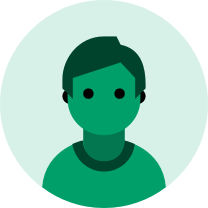
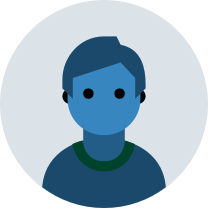
synce data to server

Changed region(s): [[0.2885, 0.1731, 0.7212, 0.7788], [0.2019, 0.6923, 0.8077, 1.0]]

diff --git a/app/services/upload_service.js b/app/services/upload_service.js
@@ -1,0 +1,105 @@
+import React, {Component} from 'react';
+// import NetInfo from "@react-native-community/netinfo";
+import realm from '../schemas/schema';
+import api from '../utils/api';
+import { environment } from '../config/environment';
+
+export default class UploadServices  {
+  static async uploadUser(uuid) {
+    alert('upload')
+    // NetInfo.isConnected.fetch().then(isConnected => {
+    //   api.post('/migrants', this._buildData(uuid)).then((res) => {
+    //     if(res.data && res.data.success){
+    //       this.cursor = 0;
+    //       this.data = realm.objects('Sidekiq').slice();
+    //       this.uploadSidekiq();
+    //     }
+    //   })
+    // });
+    // alert('me');
+    // api.post('/migrants', this._buildData(uuid)).then((res) => {
+    // let data = this._buildData(uuid);
+    // alert(JSON.stringify(data))
+
+    // let user = realm.objects('User')[0];
+    // var body = new FormData();
+    // body.append('full_name', user.name);
+    // body.append('age', user.age);
+
+    // body.append('voice', {});
+    // if (!user.voiceRecord) {
+    //   body.append('voice', {
+    //     name: 'test.aac',
+    //     type: 'audio/aac',
+    //     uri: 'file://' + user.voiceRecord
+    //   });
+    // }
+
+
+    // try {
+    //   // const res = await fetch("https://8ab20335.ngrok.io/api/v1/migrants", {
+    //   const res = await fetch("http://192.168.0.109:3000/api/v1/migrants", {
+    //     method: 'POST',
+    //     headers: {
+    //       'Accept': 'application/json',
+    //       'Content-Type': 'multipart/form-data',
+    //       'Authorization': `Bearer ${environment.access_token}`
+    //     },
+    //     body: body,
+    //   })
+    //   const json = await res.json();
+    // } catch (err) {
+    //   alert(err)
+    // }
+
+
+    // fetch(`${environment.apiUrl}/migrants`, {
+    //   method: 'POST',
+    //   headers: {
+    //     'Content-Type': 'multipart/form-data',
+    //   },
+    //   body: body
+    // })
+    // .then(response => response.json())
+    // .then(response => {
+    //   console.log("upload succes", response);
+    //   alert("Upload success!");
+    //   this.setState({ photo: null });
+    // })
+    // .catch(error => {
+    //   console.log("upload error", error);
+    //   alert("Upload failed!");
+    // });
+  }
+
+  static _buildData(uuid) {
+    // let user = realm.objects('User').filtered('uuid="' + uuid + '"')[0];
+    let user = realm.objects('User')[0];
+
+    if (!user) {
+      return {};
+    }
+
+    let attributes = {
+      uuid: user.uuid,
+      full_name: user.name,
+      age: user.age,
+      sex: user.sex,
+      phone_number: user.phoneNumber,
+      voice: user.voiceRecord
+    }
+
+    let formData = new FormData();
+    formData.append('migrant', JSON.stringify(attributes));
+
+    if (!!user.voiceRecord) {
+      formData.append('voice', {
+        uri: 'file://'+ user.voiceRecord,
+        type: 'audio/aac',
+        name: 'voiceRecord.aac'
+      });
+    }
+
+    return formData;
+  }
+}

diff --git a/app/navigators/app_navigator.js b/app/navigators/app_navigator.js
@@ -11,6 +11,7 @@ import OtherInfoScreen from '../screens/other_info';
 import RegisterScreen from '../screens/register';
 import ChcScreen from '../screens/chc';
 import AboutScreen from '../screens/about';
+import ProfileListScreen from '../screens/profile_list';
 
 const Stack = createStackNavigator();
 
@@ -19,32 +20,24 @@ export default class AppNavigator extends Component {
     return (
       <NavigationContainer>
         <StatusBar backgroundColor={Color.primary} translucent={true} />
-        <Stack.Navigator initialRouteName="RegisterScreen">
-          <Stack.Screen
-            name="HomeScreen"
-            component={HomeScreen}
-            options={{
-              headerShown: false
-            }}
-          />
+        <Stack.Navigator
+          initialRouteName="ProfileListScreen"
+          screenOptions={{
+            headerStyle: {
+              backgroundColor: Color.primary,
+            },
+            headerTintColor: '#fff',
+            headerTitleStyle: {
+              fontFamily: FontFamily.title,
+            }
+          }}>
 
-          <Stack.Screen name="ChcScreen" component={ChcScreen} />
-          <Stack.Screen name="OtherInfoScreen" component={OtherInfoScreen} />
-          <Stack.Screen
-            name="RegisterScreen"
-            component={RegisterScreen}
-            options={{
-              title: "ចុះឈ្មោះ",
-              headerStyle: {
-                backgroundColor: Color.primary,
-              },
-              headerTintColor: '#fff',
-              headerTitleStyle: {
-                fontFamily: FontFamily.title,
-              },
-            }}
-          />
-          <Stack.Screen name="AboutScreen" component={AboutScreen} />
+          <Stack.Screen name="HomeScreen" component={HomeScreen} options={{headerShown: false}}/>
+          <Stack.Screen name="ProfileListScreen" component={ProfileListScreen} options={{title: "ប្រវត្តិចុះឈ្មោះ"}}/>
+          <Stack.Screen name="ChcScreen" component={ChcScreen} options={{title: "ទាក់ទងទៅលេខ១២៨០"}} />
+          <Stack.Screen name="OtherInfoScreen" component={OtherInfoScreen} options={{title: "ចំណាកស្រុកសុវត្ថិភាព"}} />
+          <Stack.Screen name="RegisterScreen" component={RegisterScreen} options={{title: "ចុះឈ្មោះ"}} />
+          <Stack.Screen name="AboutScreen" component={AboutScreen} options={{title: "អំពីកម្មវិធី"}} />
         </Stack.Navigator>
       </NavigationContainer>
     );

diff --git a/app/screens/register.js b/app/screens/register.js
@@ -20,6 +20,7 @@ import Audio from '../components/audio';
 import Toast, { DURATION } from 'react-native-easy-toast';
 import realm from '../schemas/schema';
 import uuidv4 from '../utils/uuidv4';
+import UserWorker from '../workers/user_worker';
 
 export default class Register extends React.Component {
   state = {
@@ -110,13 +111,16 @@ export default class Register extends React.Component {
 
   _buildOption(title, value, imageName) {
     let borderStyle = this.state.sex == value ? { borderColor: Color.primary } : {};
+    let textFont = this.state.sex == value ? FontFamily.title : FontFamily.body;
+    let textColor = this.state.sex == value ? Color.primary : Color.textBlack;
+
     return (
       <TouchableOpacity
         onPress={() => this.setState({sex: value}) }
         style={[styles.card, Style.boxShadow, borderStyle]}>
 
         <Image source={Images[imageName]} style={{width: 52, height: 52}} />
-        <Text>{title}</Text>
+        <Text style={{fontFamily: textFont, color: textColor}}>{title}</Text>
       </TouchableOpacity>
     )
   }
@@ -162,8 +166,8 @@ export default class Register extends React.Component {
     try {
       realm.write(() => {
         realm.create('User', this._buildData(), true);
-        // Sidekiq.create(this.state.uuid, 'User');
-        // this.props.navigation.navigate('AboutScreen');
+        UserWorker.performAsync(this.state.uuid);
+        this.props.navigation.navigate('ChcScreen');
       });
     } catch (e) {
       alert(e);
@@ -171,7 +175,7 @@ export default class Register extends React.Component {
   }
 
   _buildData() {
-    let fields = ['uuid', 'name', 'sex', 'age', 'phoneNumber'];
+    let fields = ['uuid', 'name', 'sex', 'age', 'phoneNumber', 'voiceRecord'];
     let obj = {};
 
     for(let i=0; i<fields.length; i++) {

diff --git a/app/components/audio.js b/app/components/audio.js
@@ -104,8 +104,8 @@ export default class Audio extends Component {
     }
 
     const rationale = {
-      'title': 'Microphone Permission',
-      'message': 'AudioExample needs access to your microphone so you can record audio.'
+      'title': 'ការអនុញ្ញាតប្ើរមីក្រូហ្វូន',
+      'message': 'កម្មវិធីនេះ សុំសិទ្ធិចូលប្រើមីក្រូហ្វូនរបស់អ្នក ដូច្នេះទើបអ្នកអាចថតសំលេង។'
     };
 
     return PermissionsAndroid.request(PermissionsAndroid.PERMISSIONS.RECORD_AUDIO, rationale)
@@ -247,8 +247,8 @@ export default class Audio extends Component {
   _renderButtonSave() {
     return (
       <TouchableOpacity style={{flex: 1, alignItems: 'center'}} onPress={() => this._onSaveRecord()}>
-        <AwesomeIcon name='check' size={30} color={Color.primary} />
-        <Text style={{color: Color.primary}}>រក្សាទុក</Text>
+        <AwesomeIcon name='check' size={30} color={Color.green} />
+        <Text style={{color: Color.green}}>រក្សាទុក</Text>
       </TouchableOpacity>
     );
   }

diff --git a/App.js b/App.js
@@ -9,7 +9,7 @@ import { ThemeContext, getTheme } from 'react-native-material-ui';
 import { setCustomText} from 'react-native-global-props';
 import SplashScreen from 'react-native-splash-screen';
 import AppNavigator from './app/navigators/app_navigator';
-
+import UserWorker from './app/workers/user_worker';
 import { Color, FontFamily, FontSize } from './app/assets/stylesheets/base_style';
 
 const customTextProps = {
@@ -32,6 +32,7 @@ setCustomText(customTextProps);
 export default class App extends React.Component {
   componentDidMount() {
     SplashScreen.hide();
+    UserWorker.init();
   }
 
   render() {

diff --git a/app/screens/profile_list.js b/app/screens/profile_list.js
@@ -1,0 +1,30 @@
+import React from 'react';
+import {
+  View,
+  Text,
+  Image,
+  ScrollView,
+  StyleSheet
+} from 'react-native';
+
+import { ThemeContext, getTheme } from 'react-native-material-ui';
+import { StatusBar } from 'react-native';
+
+
+export default class ProfileList extends React.Component {
+  state = {};
+
+  constructor(props) {
+    super(props);
+  }
+
+  componentDidMount() {
+
+  }
+
+  render() {
+    return (
+      <Text>Profile List</Text>
+    );
+  }
+}

diff --git a/app/workers/user_worker.js b/app/workers/user_worker.js
@@ -1,0 +1,16 @@
+import UploadServices from '../services/upload_service';
+import queueFactory from 'react-native-queue';
+
+export default class UserWorker {
+  static async init() {
+    queue = await queueFactory();
+    queue.addWorker('uploadUser', async (id, payload) => {
+      UploadServices.uploadUser(payload.uuid);
+    });
+  }
+
+  static async performAsync(uuid) {
+    queue = await queueFactory();
+    queue.createJob('uploadUser', { uuid: uuid }, {}, true);
+  }
+}

diff --git a/app/assets/stylesheets/base_style.js b/app/assets/stylesheets/base_style.js
@@ -1,13 +1,17 @@
 import { StyleSheet } from 'react-native';
 
 export const Color = {
-  primary: '#009e69',
+  // primary: '#009e69',
+  primary: '#1a496b',
   border: '#d1d1d1',
   delete: '#e44a4a',
   cancel: '#f75353',
-  gray: '#9a9a9a',
   errorText: '#e44a4a',
   btnDisabled: '#8a8a8e',
+  textBlack: '#1b1d1d',
+
+  gray: '#9a9a9a',
+  green: '#009e69'
 };
 
 export const FontFamily = {

diff --git a/app/utils/api.js b/app/utils/api.js
@@ -1,0 +1,11 @@
+import { create } from 'apisauce';
+import { environment } from '../config/environment';
+
+const api = create({
+  baseURL: environment.apiUrl,
+  headers: {
+    'Authorization': `Bearer ${environment.access_token}`
+  }
+});
+
+export default api;

diff --git a/app/screens/home.js b/app/screens/home.js
@@ -131,7 +131,7 @@ const styles = StyleSheet.create({
   },
   imageWrapper: {
     height: 210,
-    backgroundColor: '#009e69',
+    backgroundColor: Color.primary,
     flexDirection: 'row',
     justifyContent: 'center',
     alignItems: 'flex-start'

diff --git a/app/config/environment.js b/app/config/environment.js
@@ -1,0 +1,4 @@
+export const environment = {
+  apiUrl: 'http://192.168.0.109:3000/api/v1',
+  access_token: '843fcbf366fb670c2fe29fd449595620',
+};

diff --git a/android/app/src/main/java/com/migrantworkermobile/MainApplication.java b/android/app/src/main/java/com/migrantworkermobile/MainApplication.java
@@ -4,6 +4,7 @@ import android.app.Application;
 import android.content.Context;
 import com.facebook.react.PackageList;
 import com.facebook.react.ReactApplication;
+import io.realm.react.RealmReactPackage;
 import com.zmxv.RNSound.RNSoundPackage;
 import com.rnim.rn.audio.ReactNativeAudioPackage;
 import com.johnsonsu.rnsoundplayer.RNSoundPlayerPackage;
